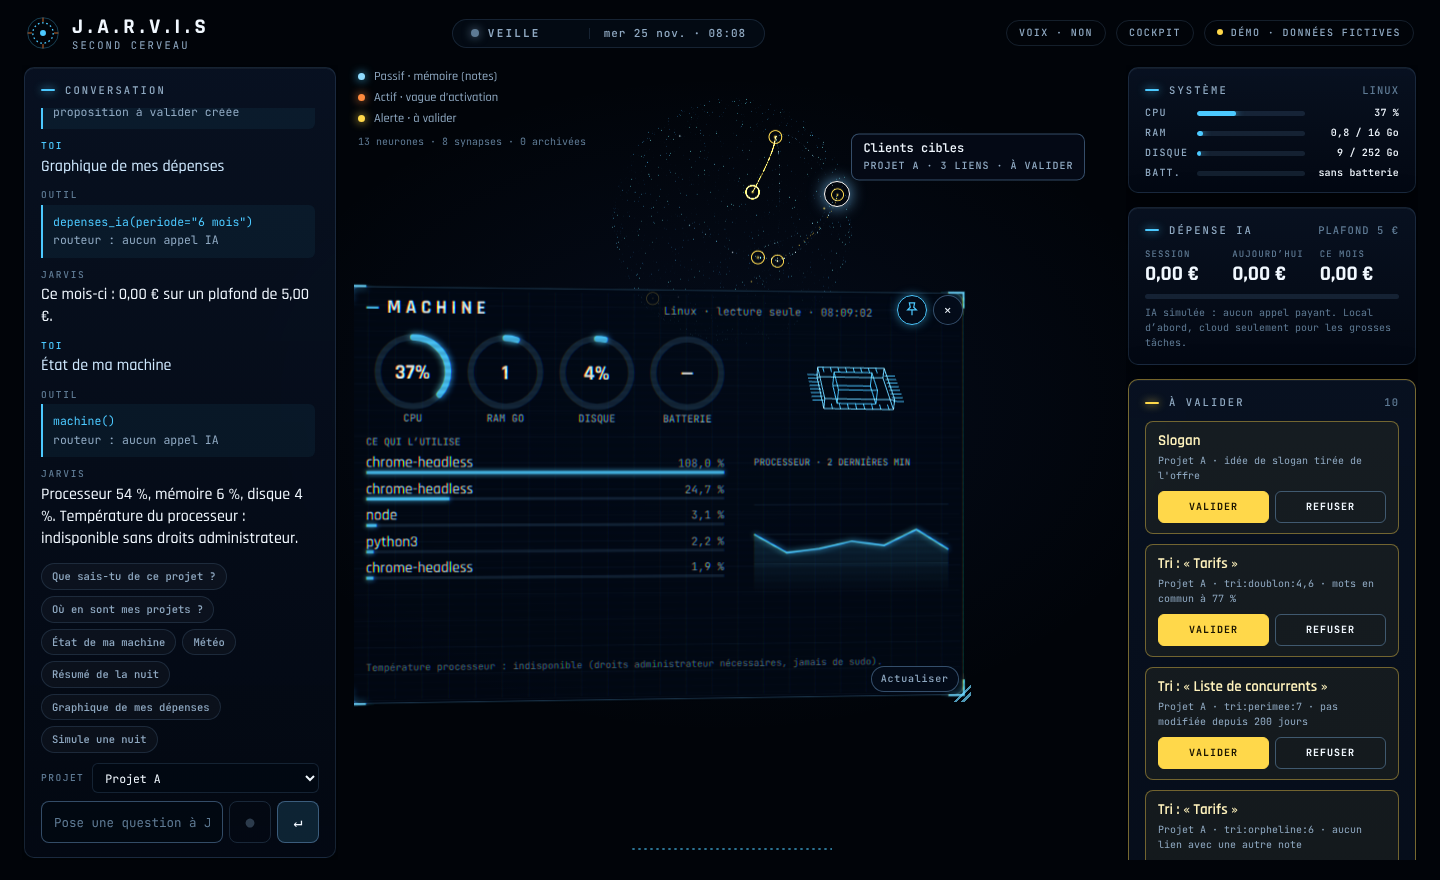
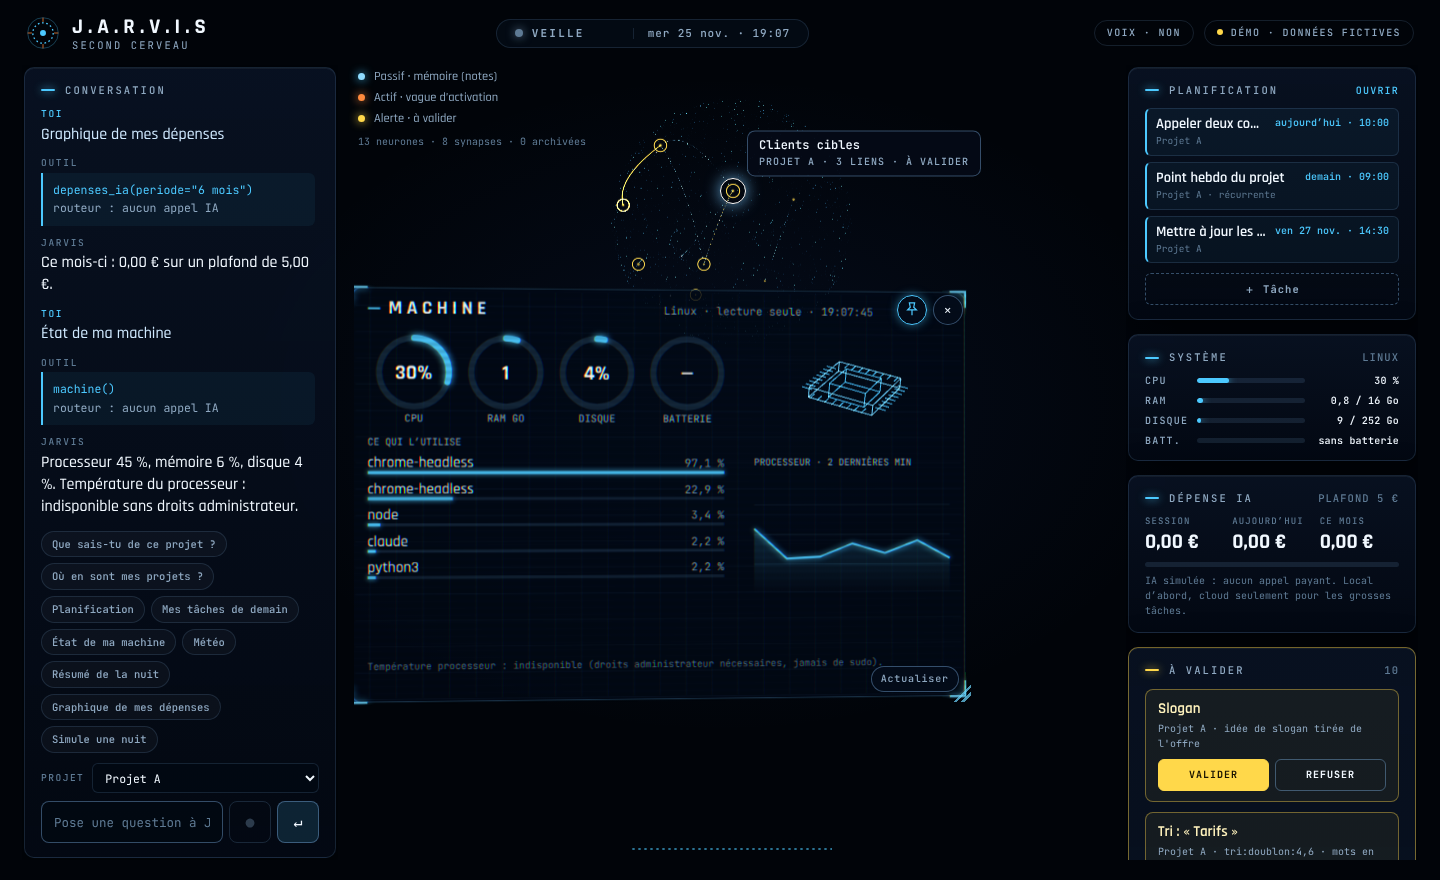
Marche 7 · 12 : bout en bout, captures, guide agenda Apple, documentation
- Test navigateur (62 étapes, aucune erreur console) : tâche créée,
  déplacée à la souris, modifiée, terminée, supprimée ; vue « tous » en
  lecture seule ; « mes tâches de demain » ; impulsions pendant une réponse ;
  aucune image redessinée au repos ; iPhone.
- Captures 1440 × 880 et 390 × 844 (dont la planification).
- Téléphone : planification ouverte en vue liste, contrôles sans chevauchement.
- Serveur : les connexions fermées par le navigateur ne s'affichent plus.
- LISEZ-MOI : sphère au repos, impulsions, planification, guide pas à pas
  « Brancher ton agenda Apple » ; réglages agenda_masquer_titres et
  agenda_calendriers ; rapport mis à jour.

Claude-Session: https://claude.ai/code/session_0177sqLFBsrbAVa9h7JruhzR

diff --git a/interface/sphere/js/widgets/scenes/planification.js b/interface/sphere/js/widgets/scenes/planification.js
@@ -113,7 +113,7 @@ export default {
     const d = ev.donnees, ro = !!d.lecture_seule, tous = d.projet === '*';
     const fin = plusJours(d.debut, d.jours - 1);
     const periode = d.jours === 1 ? libelleDate(d.debut) : `${libelleDate(d.debut)} → ${libelleDate(fin)}`;
-    const C = cadre(c, W, H, ev.titre, `${tous ? 'tous les projets · lecture seule' : d.projet} · ${periode}`, W >= 560 ? 50 : 84);
+    const C = cadre(c, W, H, ev.titre, `${tous ? 'tous les projets · lecture seule' : d.projet} · ${periode}`, W >= 780 ? 50 : W >= 560 ? 84 : 118);
     const R = { x: C.x, y: C.y + 14, w: C.w, h: C.h - 14 };
     const zones = [], ext = d.externes || {}, externes = ext.disponible ? ext.evenements || [] : [];
     // légende : agenda Apple
@@ -128,23 +128,25 @@ export default {
       d.taches.forEach((t) => { if (t.date !== dernier) { lignes.push({ titre: libelleDate(t.date), aujourd: t.date === d.aujourd_hui }); dernier = t.date; } lignes.push({ t }); });
       if (d.sans_date && d.sans_date.length) { lignes.push({ titre: 'Sans date' }); d.sans_date.forEach((t) => lignes.push({ t })); }
       if (!lignes.length) tx(c, ro ? 'Aucune tâche sur cette période.' : 'Aucune tâche sur cette période. « ＋ Tâche » pour en ajouter une.', R.x, R.y + 24, 14, COULEURS.gris, 500);
-      const rh = 24, max = Math.floor((R.h - 4) / rh);
+      const rh = 24, place = Math.floor((R.h - 4) / rh), deborde = lignes.length > place;
+      const max = deborde ? place - 1 : place;          // la dernière ligne annonce la suite
       lignes.slice(0, max).forEach((l, i) => {
         const y = R.y + 4 + i * rh;
         if (l.titre) { section(c, l.titre.toUpperCase() + (l.aujourd ? ' · AUJOURD’HUI' : ''), R.x, y + 15); return; }
         const t = l.t, coul = couleurTache(t);
         c.fillStyle = coul.bord; c.fillRect(R.x, y + 5, 3, rh - 9);
         tx(c, t.heure || '—', R.x + 10, y + 16, 11, COULEURS.gris, 500, 'm');
-        c.font = '600 14px Rajdhani';
-        const titre = couper(c, (t.statut === 'fait' ? '✓ ' : t.statut === 'pas fait' ? '✕ ' : '') + t.titre, R.w * 0.5);
-        tx(c, titre, R.x + 58, y + 16, 14, coul.texte, 600);
         const etq = [tous ? t.projet : null, t.recurrence !== 'aucune' ? '↻ ' + LIBELLES_RECURRENCE[t.recurrence] : null,
           t.note_titre ? '◆ ' + t.note_titre : null, `${t.duree} min`].filter(Boolean).join(' · ');
         c.font = '400 10px "JetBrains Mono"';
-        tx(c, couper(c, etq, R.w * 0.42), R.x + R.w, y + 16, 10, COULEURS.gris2, 400, 'm', 'right');
+        const etqCoupee = couper(c, R.w < 420 ? `${t.duree} min` : etq, R.w * 0.4), largeurEtq = c.measureText(etqCoupee).width;
+        tx(c, etqCoupee, R.x + R.w, y + 16, 10, COULEURS.gris2, 400, 'm', 'right');
+        c.font = '600 14px Rajdhani';
+        const titre = couper(c, (t.statut === 'fait' ? '✓ ' : t.statut === 'pas fait' ? '✕ ' : '') + t.titre, R.w - 58 - largeurEtq - 12);
+        tx(c, titre, R.x + 58, y + 16, 14, coul.texte, 600);
         zones.push(zoneTache(t, R.x - 4, y + 2, R.w + 8, rh - 3, false, tous));
       });
-      if (lignes.length > max) tx(c, `+ ${lignes.length - max} lignes (agrandis le widget)`, R.x, C.y + 6, 9.5, COULEURS.gris2, 400, 'm');
+      if (deborde) tx(c, `+ ${lignes.length - max} lignes : agrandis le widget ou passe en vue jour`, R.x, R.y + 4 + max * rh + 15, 9.5, COULEURS.gris2, 400, 'm');
       return { zones, geom: null };
     }
 

diff --git a/vercel-demo/sphere/js/widgets/scenes/planification.js b/vercel-demo/sphere/js/widgets/scenes/planification.js
@@ -113,7 +113,7 @@ export default {
     const d = ev.donnees, ro = !!d.lecture_seule, tous = d.projet === '*';
     const fin = plusJours(d.debut, d.jours - 1);
     const periode = d.jours === 1 ? libelleDate(d.debut) : `${libelleDate(d.debut)} → ${libelleDate(fin)}`;
-    const C = cadre(c, W, H, ev.titre, `${tous ? 'tous les projets · lecture seule' : d.projet} · ${periode}`, W >= 560 ? 50 : 84);
+    const C = cadre(c, W, H, ev.titre, `${tous ? 'tous les projets · lecture seule' : d.projet} · ${periode}`, W >= 780 ? 50 : W >= 560 ? 84 : 118);
     const R = { x: C.x, y: C.y + 14, w: C.w, h: C.h - 14 };
     const zones = [], ext = d.externes || {}, externes = ext.disponible ? ext.evenements || [] : [];
     // légende : agenda Apple
@@ -128,23 +128,25 @@ export default {
       d.taches.forEach((t) => { if (t.date !== dernier) { lignes.push({ titre: libelleDate(t.date), aujourd: t.date === d.aujourd_hui }); dernier = t.date; } lignes.push({ t }); });
       if (d.sans_date && d.sans_date.length) { lignes.push({ titre: 'Sans date' }); d.sans_date.forEach((t) => lignes.push({ t })); }
       if (!lignes.length) tx(c, ro ? 'Aucune tâche sur cette période.' : 'Aucune tâche sur cette période. « ＋ Tâche » pour en ajouter une.', R.x, R.y + 24, 14, COULEURS.gris, 500);
-      const rh = 24, max = Math.floor((R.h - 4) / rh);
+      const rh = 24, place = Math.floor((R.h - 4) / rh), deborde = lignes.length > place;
+      const max = deborde ? place - 1 : place;          // la dernière ligne annonce la suite
       lignes.slice(0, max).forEach((l, i) => {
         const y = R.y + 4 + i * rh;
         if (l.titre) { section(c, l.titre.toUpperCase() + (l.aujourd ? ' · AUJOURD’HUI' : ''), R.x, y + 15); return; }
         const t = l.t, coul = couleurTache(t);
         c.fillStyle = coul.bord; c.fillRect(R.x, y + 5, 3, rh - 9);
         tx(c, t.heure || '—', R.x + 10, y + 16, 11, COULEURS.gris, 500, 'm');
-        c.font = '600 14px Rajdhani';
-        const titre = couper(c, (t.statut === 'fait' ? '✓ ' : t.statut === 'pas fait' ? '✕ ' : '') + t.titre, R.w * 0.5);
-        tx(c, titre, R.x + 58, y + 16, 14, coul.texte, 600);
         const etq = [tous ? t.projet : null, t.recurrence !== 'aucune' ? '↻ ' + LIBELLES_RECURRENCE[t.recurrence] : null,
           t.note_titre ? '◆ ' + t.note_titre : null, `${t.duree} min`].filter(Boolean).join(' · ');
         c.font = '400 10px "JetBrains Mono"';
-        tx(c, couper(c, etq, R.w * 0.42), R.x + R.w, y + 16, 10, COULEURS.gris2, 400, 'm', 'right');
+        const etqCoupee = couper(c, R.w < 420 ? `${t.duree} min` : etq, R.w * 0.4), largeurEtq = c.measureText(etqCoupee).width;
+        tx(c, etqCoupee, R.x + R.w, y + 16, 10, COULEURS.gris2, 400, 'm', 'right');
+        c.font = '600 14px Rajdhani';
+        const titre = couper(c, (t.statut === 'fait' ? '✓ ' : t.statut === 'pas fait' ? '✕ ' : '') + t.titre, R.w - 58 - largeurEtq - 12);
+        tx(c, titre, R.x + 58, y + 16, 14, coul.texte, 600);
         zones.push(zoneTache(t, R.x - 4, y + 2, R.w + 8, rh - 3, false, tous));
       });
-      if (lignes.length > max) tx(c, `+ ${lignes.length - max} lignes (agrandis le widget)`, R.x, C.y + 6, 9.5, COULEURS.gris2, 400, 'm');
+      if (deborde) tx(c, `+ ${lignes.length - max} lignes : agrandis le widget ou passe en vue jour`, R.x, R.y + 4 + max * rh + 15, 9.5, COULEURS.gris2, 400, 'm');
       return { zones, geom: null };
     }
 

diff --git a/interface/sphere/js/main.js b/interface/sphere/js/main.js
@@ -154,7 +154,12 @@ async function demarrer() {
   });
   async function ouvrirPlanification(projet) {
     if (!holo) return;
-    try { afficher(await source.ouvrirPlanification(projet || choix.value || '*')); } catch (e) { conv.outil('planification · erreur', e.message); }
+    const telephone = window.matchMedia && window.matchMedia('(max-width: 560px)').matches;
+    try { afficher(await source.ouvrirPlanification(projet || choix.value || '*', undefined, telephone ? 'liste' : 'semaine')); } catch (e) { conv.outil('planification · erreur', e.message); }
+    // Sur téléphone, la sphère (et l'hologramme) est en haut de la page : on y remonte.
+    if (window.matchMedia && window.matchMedia('(max-width: 900px)').matches) {
+      $('centre').scrollIntoView({ block: 'start', behavior: window.matchMedia('(prefers-reduced-motion: reduce)').matches ? 'auto' : 'smooth' });
+    }
   }
   $('planif-ouvrir').addEventListener('click', () => ouvrirPlanification(choix.value));
   $('planif-ajouter').addEventListener('click', () => {

diff --git a/vercel-demo/sphere/js/main.js b/vercel-demo/sphere/js/main.js
@@ -154,7 +154,12 @@ async function demarrer() {
   });
   async function ouvrirPlanification(projet) {
     if (!holo) return;
-    try { afficher(await source.ouvrirPlanification(projet || choix.value || '*')); } catch (e) { conv.outil('planification · erreur', e.message); }
+    const telephone = window.matchMedia && window.matchMedia('(max-width: 560px)').matches;
+    try { afficher(await source.ouvrirPlanification(projet || choix.value || '*', undefined, telephone ? 'liste' : 'semaine')); } catch (e) { conv.outil('planification · erreur', e.message); }
+    // Sur téléphone, la sphère (et l'hologramme) est en haut de la page : on y remonte.
+    if (window.matchMedia && window.matchMedia('(max-width: 900px)').matches) {
+      $('centre').scrollIntoView({ block: 'start', behavior: window.matchMedia('(prefers-reduced-motion: reduce)').matches ? 'auto' : 'smooth' });
+    }
   }
   $('planif-ouvrir').addEventListener('click', () => ouvrirPlanification(choix.value));
   $('planif-ajouter').addEventListener('click', () => {

diff --git a/interface/serveur_web.py b/interface/serveur_web.py
@@ -314,10 +314,20 @@ class Gestionnaire(BaseHTTPRequestHandler):
             self._envoyer(400, {"erreur": f"{type(e).__name__} : {e}"})
 
 
+class ServeurSilencieux(ThreadingHTTPServer):
+    """Un navigateur qui ferme sa connexion en cours de route n'est pas une erreur à afficher."""
+    daemon_threads = True
+
+    def handle_error(self, request, client_address):
+        if isinstance(sys.exc_info()[1], (ConnectionError, TimeoutError)):
+            return
+        super().handle_error(request, client_address)
+
+
 def creer_serveur(port=8765, jeton=None, racine=None, hote="127.0.0.1"):
     jeton = jeton or reglages.lire("COCKPIT_JETON") or secrets.token_urlsafe(16)
     gestionnaire = type("GestionnaireJarvis", (Gestionnaire,), {"jeton": jeton, "racine": racine})
-    serveur = ThreadingHTTPServer((hote, port), gestionnaire)
+    serveur = ServeurSilencieux((hote, port), gestionnaire)
     from interface import fournisseurs
     fournisseurs.demarrer_session(racine)
     serveur.jeton = jeton

diff --git a/noyau/reglages.py b/noyau/reglages.py
@@ -31,6 +31,10 @@ DEFAUTS = {
     # --- Interface : météo (facultatif ; vide = pas de météo, aucun appel réseau) ---
     "METEO_LATITUDE": "",
     "METEO_LONGITUDE": "",
+    # --- Module agenda (agenda Apple du Mac, lecture seule) ---
+    "agenda_masquer_titres": "false",
+    "agenda_calendriers": "",
+    "agenda_ecriture": "false",
     # --- Routeur IA ---
     "mode_ia": "simule",              # simule (sans clé) ou reel
     "modele_gemini": "gemini-2.5-flash",
@@ -90,6 +94,12 @@ contrainte_objectifs=
 # Exemple pour Paris : METEO_LATITUDE=48.85 et METEO_LONGITUDE=2.35
 METEO_LATITUDE=
 METEO_LONGITUDE=
+
+# --- Agenda Apple (module agenda, lecture seule) ---
+# true = n'affiche que « occupé » au lieu des titres de tes rendez-vous.
+agenda_masquer_titres=false
+# Calendriers à lire, séparés par des virgules (vide = tous). Ex. : Travail,Perso
+agenda_calendriers=
 
 # --- Clés API (facultatif ; à remplir toi-même, jamais dans le chat) ---
 # CLE_API_GEMINI=

diff --git a/interface/test_e2e_sphere.py b/interface/test_e2e_sphere.py
@@ -53,4 +53,6 @@ class TestBoutEnBout(TestTemporaire):
         echecs = [f"{e['nom']} ({e['detail']})" for e in bilan["etapes"] if not e["ok"]]
         self.assertEqual(echecs, [])
         self.assertEqual(bilan["erreurs"], [])
-        self.assertGreaterEqual(len(bilan["etapes"]), 40)
+        self.assertGreaterEqual(len(bilan["etapes"]), 60)
+        print(f"\n{len(bilan['etapes'])} étapes réussies dans le navigateur, aucune erreur console.",
+              file=sys.stderr)

diff --git a/LISEZ-MOI.md b/LISEZ-MOI.md
@@ -7,7 +7,8 @@ jamais rien écrire seuls : c'est toi qui valides.
 
 > **État : prototype fonctionnel n°1.** Tout tourne sur ton Mac, en Python seul (**rien à
 > installer**), avec une IA **simulée** par défaut : 0 €, aucune clé, aucun réseau nécessaire.
-> 184 tests automatiques, tous réussis.
+> 244 tests automatiques Python et 22 tests JavaScript, tous réussis ; le test complet dans un
+> navigateur vérifie 62 étapes.
 
 ![Le cockpit de JARVIS : la sphère de la mémoire, la conversation et les widgets](docs/maquettes/sphere-1440x880-notes-retenues.png)
 
@@ -80,6 +81,7 @@ polices : l'interface affiche alors la liste de tes notes (titres seulement).
 | Brancher Claude Desktop (MCP) | `python3 jarvis.py config-claude`, coller le réglage affiché, redémarrer Claude |
 | Lancer le serveur MCP à la main | `python3 -m noyau.corps_calleux` |
 | Activer le module de notifications | `python3 jarvis.py modules --activer notifications` |
+| Brancher l'agenda Apple (lecture seule) | `python3 jarvis.py modules --activer agenda --mode REEL` |
 | Lancer tous les tests | `python3 jarvis.py tests` |
 
 Toutes les commandes : `python3 jarvis.py --help`. Pour essayer sur un autre dossier de données :
@@ -95,6 +97,15 @@ synapse par lien pondéré, une région par projet (jamais de synapse entre deux
   **jaune** = une proposition attend ta validation (deux anneaux sur les notes concernées).
 - **Gestes** : glisser pour tourner (avec élan), molette ou pincement pour zoomer, flèches et
   `+` / `-` au clavier ; survoler ou cliquer un neurone affiche son titre, son projet et ses liens.
+- **Au repos, la sphère est une image fixe** : synapses en pointillés immobiles, aucune rotation
+  automatique, rien n'est recalculé ni redessiné (processeur et carte graphique au repos). Elle ne
+  bouge que si tu la touches, quand JARVIS cherche ou répond, la nuit, ou quand un hologramme est
+  ouvert.
+- **Quand JARVIS répond**, la sphère passe en bleu vif : à chaque mot (ou à chaque mot prononcé si
+  la voix est activée), une impulsion part de la zone du projet concerné et traverse la sphère
+  (neurones plus gros et plus lumineux, synapses éclairées, léger gonflement), puis tout revient au
+  calme. L'orange reste réservé à la recherche de notes. Avec « réduire les animations » (réglage
+  du Mac), une simple lueur, sans déformation.
 - **Une question** (colonne de gauche) déclenche la **vague en 4 temps** (environ 10 s) :
   1 notation de tous les neurones (par code, sans IA), 2 propagation le long des synapses,
   3 sélection (les notes gardées, numérotées, face à toi), 4 réponse. La ligne « OUTIL » montre
@@ -109,7 +120,17 @@ synapse par lien pondéré, une région par projet (jamais de synapse entre deux
   une note sensible).
 - **Garde d'écriture** : un bouton marqué « · à valider » n'exécute rien. Il crée une
   proposition qui apparaît dans **À valider** ; seule ta validation écrit dans la mémoire.
-- **Colonne de droite** : Système (CPU, RAM, disque, batterie, sans droits administrateur),
+- **Planification** (carte en haut à droite) : tes 3 prochaines tâches, « Ouvrir » pour la vue
+  en grand, « ＋ Tâche » pour en ajouter une. En grand : **liste**, **jour** ou **semaine** en
+  frise horaire, ◀ ▶ pour changer de période, un projet à la fois (« tous » = lecture seule).
+  Une tâche : titre, date, heure, durée, projet, priorité, récurrence (chaque jour, jours ouvrés,
+  chaque semaine, chaque mois), rappel, note liée. **Glisse** une tâche pour la déplacer ; clique
+  dessus pour la modifier, la marquer **Fait** / **Pas fait** ou la supprimer ; sa note liée
+  s'allume dans la sphère. Ce que tu crées est enregistré tout de suite ; une tâche proposée par
+  JARVIS passe par **À valider**. Chaque changement est noté au journal. Demande aussi
+  « planification » ou « mes tâches de demain ». Les rendez-vous de ton agenda Apple s'affichent
+  en violet, non modifiables (voir « Brancher ton agenda Apple »).
+- **Colonne de droite** : Planification, Système (CPU, RAM, disque, batterie, sans droits administrateur),
   Dépense IA (session, aujourd'hui, ce mois, plafond), À valider, Journal du jour (projets
   sensibles masqués).
 - **Météo** (facultative) : renseigne `METEO_LATITUDE` et `METEO_LONGITUDE` dans
@@ -122,8 +143,41 @@ synapse par lien pondéré, une région par projet (jamais de synapse entre deux
   tes notes (titres) s'affichent à la place de la sphère.
 
 Tests : `python3 jarvis.py tests` lance aussi les tests JavaScript (si Node.js est installé).
-Le test complet dans un navigateur (environ 2 minutes) se lance à part :
+Le test complet dans un navigateur (environ 4 minutes) se lance à part :
 `JARVIS_E2E=1 python3 -m unittest interface.test_e2e_sphere` (Node.js et Playwright requis).
+
+## Brancher ton agenda Apple (lecture seule)
+
+Le module `agenda` lit l'app **Calendrier de ton Mac**, directement sur la machine : aucun
+identifiant, aucun mot de passe. Ses rendez-vous apparaissent en violet dans la Planification,
+sans pouvoir être modifiés.
+
+1. Dans le Terminal, dans le dossier JARVIS :
+
+   ```
+   python3 jarvis.py modules --activer agenda --mode REEL
+   ```
+
+2. Lance le cockpit (`python3 jarvis.py cockpit`) et ouvre la **Planification**.
+3. La première fois, macOS demande si **Terminal** peut accéder à tes calendriers (ou contrôler
+   « Calendrier ») : clique **Autoriser** (ou **OK**).
+4. Si tu as refusé par erreur : **Réglages Système › Confidentialité et sécurité › Calendriers**,
+   active **Terminal** ; puis **Automatisation › Terminal**, coche **Calendrier**. Recharge la page.
+5. Options, dans `~/.jarvis/reglages.local` :
+   - `agenda_masquer_titres=true` : n'affiche que « occupé » au lieu des titres ;
+   - `agenda_calendriers=Travail,Perso` : ne lit que ces calendriers (vide = tous).
+
+Si la lecture échoue (pas de Mac, accès refusé, Calendrier trop lent), un message clair
+s'affiche et la Planification continue sans l'agenda. Pour revenir aux faux rendez-vous :
+`python3 jarvis.py modules --activer agenda --mode DEMO` ; pour le retirer :
+`python3 jarvis.py modules --retirer agenda`.
+
+**Écrire dans l'agenda** (créer ou déplacer un rendez-vous) est préparé mais pas encore branché :
+une telle demande devient une proposition « À valider », et même validée, rien n'est écrit dans
+l'agenda à cette étape.
+
+**Limites** : les rendez-vous répétitifs d'Apple n'apparaissent qu'à leur première date (limite
+de la lecture par AppleScript) ; un très gros agenda peut mettre quelques secondes à répondre.
 
 ## Démo en ligne (Vercel)
 
@@ -178,6 +232,8 @@ Ce fichier est créé tout seul à la première commande, **hors du dépôt**. L
 | `idees_par_projet`, `candidates_par_nuit` | `1`, `5` | idées gardées et imaginées chaque nuit |
 | `cloud_pour_reveil` | `false` | permet le cloud payant pour noter les idées (réveil) |
 | `contrainte_budget_eur`, `contrainte_niveau`, `contrainte_objectifs` | `0`, `débutant`, vide | tes contraintes, pour noter les idées du rêve |
+| `METEO_LATITUDE`, `METEO_LONGITUDE` | vides | ta position, pour l'hologramme météo (facultatif) |
+| `agenda_masquer_titres`, `agenda_calendriers` | `false`, vide | agenda Apple : « occupé » au lieu des titres ; calendriers lus |
 
 `reglages.exemple` (dans le dépôt) montre tous les réglages possibles, sans aucune vraie valeur.
 
@@ -197,6 +253,8 @@ Ce fichier est créé tout seul à la première commande, **hors du dépôt**. L
 | `interface/serveur_web.py`, `interface/conversation.py`, `interface/fournisseurs.py` | Le serveur web local (127.0.0.1 seulement), la conversation (routage par code) et les données des widgets |
 | `interface/sphere/` | Le cockpit (interface « sphère ») : `js/` (sphère, vague, nuit, conversation, tableau, hologrammes), `css/`, catalogue, tests |
 | `noyau/affichage.py` | Le contrat des hologrammes : événements validés, mises à jour, garde d'écriture des widgets |
+| `noyau/planification.py` | Les tâches : date, heure, durée, priorité, récurrence, rappel ; actions de Kayd et propositions de JARVIS |
+| `modules/agenda/` | Le module « agenda » : l'app Calendrier du Mac en lecture seule (modes DÉMO et RÉEL) |
 | `exemples/demo.py` | La démo de bout en bout |
 | `exemples/export_demo.py`, `vercel-demo/`, `vercel.json` | La démo en ligne : export, site statique, réglage Vercel |
 | `jarvis.py` | La « télécommande » : toutes les commandes |
@@ -208,7 +266,9 @@ qui est particulier devient un module dans `modules/`.
 
 ## Maquettes
 
-- Interface sphère : [notes retenues](docs/maquettes/sphere-1440x880-notes-retenues.png) ·
+- Cockpit : [planification](docs/maquettes/cockpit-1440x880-planification.png) ·
+  [planification sur iPhone](docs/maquettes/cockpit-390x844-planification.png) ·
+  [notes retenues](docs/maquettes/sphere-1440x880-notes-retenues.png) ·
   [machine](docs/maquettes/sphere-1440x880-machine.png) ·
   [iPhone](docs/maquettes/sphere-390x844-notes-retenues.png) ·
   [graphique](docs/maquettes/catalogue-1440x880-graphique.png) ·

diff --git a/RAPPORT-FINAL.md b/RAPPORT-FINAL.md
@@ -152,3 +152,26 @@ avec la suite de tests au vert.
   viendra avec le routeur réel.
 - Le test navigateur tourne sur WebGL logiciel : la fluidité réelle (60 images/s) se juge
   sur le Mac ; un repli automatique baisse la définition puis masque la poussière si besoin.
+
+## Marche 7 · suite : cockpit unique, sphère au repos, planification, agenda Apple
+
+- **Ancien cockpit supprimé** (page, route `/cockpit`, bouton, API, fichiers, tests, captures,
+  démo en ligne) : la sphère est le cockpit. Une note sensible s'ouvre avec « Ouvrir dans
+  l'éditeur local » (geste de Kayd).
+- **Sphère au repos = image fixe** : synapses en pointillés immobiles, rendu à la demande,
+  rotation automatique supprimée. Mesure au repos (Chromium, 1440 × 880, rendu logiciel) :
+  **59,5 → 0 image/s**, fil principal **77 % → 0,8 %**.
+- **Impulsions de parole** : une seule source d'intensité (0 à 1, `parole.js`), une impulsion
+  par mot écrit, par mot prononcé, ou par pic de volume (Web Audio) ; elles partent de la zone
+  du projet concerné ; bleu vif ; mouvement réduit = simple lueur.
+- **Planification** : table `taches` enrichie (heure, durée, priorité, récurrence, rappel),
+  `noyau/planification.py`, carte permanente (3 prochaines tâches) et hologramme (liste, jour,
+  semaine), fiche de tâche, glisser pour déplacer, journal à chaque changement, JARVIS propose
+  (« À valider »), vue « tous » en lecture seule, mode démo séparé.
+- **Module agenda** (`modules/agenda/`) : lecture locale de l'app Calendrier (choix de Kayd),
+  modes DÉMO / RÉEL, « masquer les titres », échec propre ; écriture préparée en proposition,
+  jamais exécutée à cette étape.
+
+Choix faits seul : la carte Planification est en tête de la colonne de droite ; le
+« ＋ Nouveau projet » et la création de notes de l'ancien cockpit ne sont pas repris (à décider) ;
+les rappels s'affichent dans la conversation quand le cockpit est ouvert.
